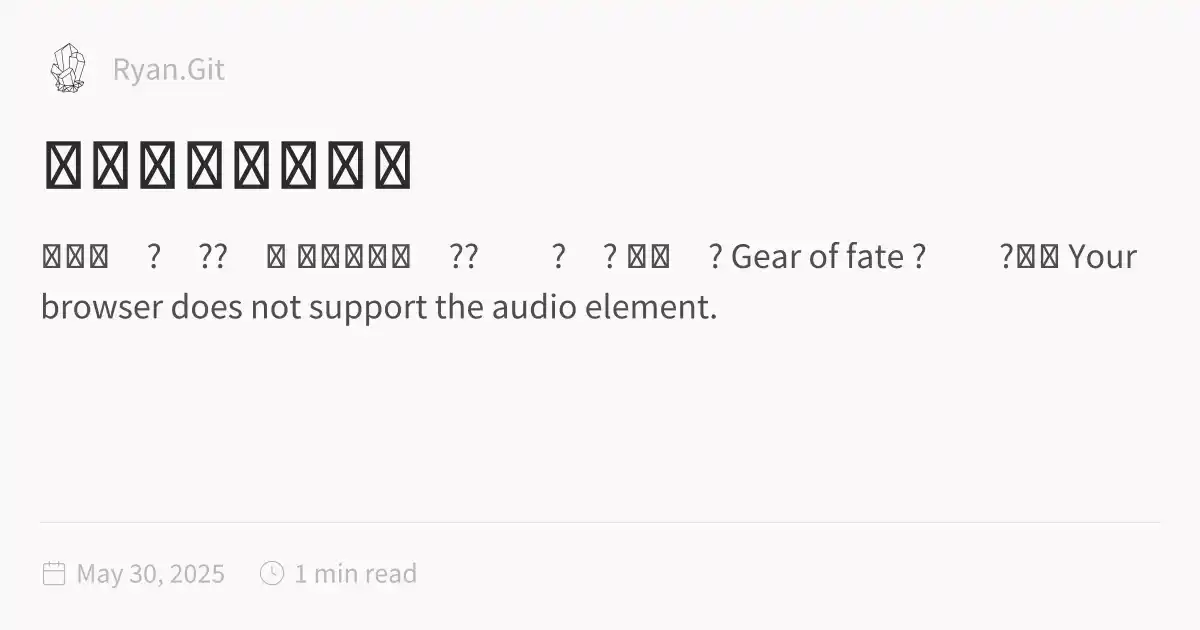
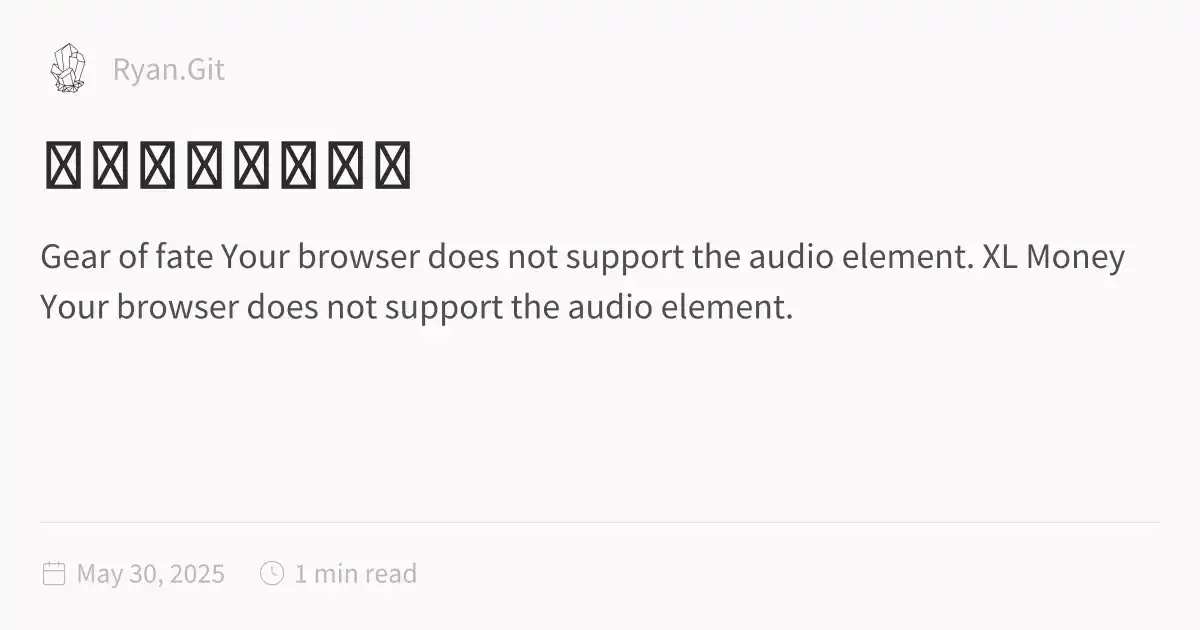
Deploy updated site

Changed region(s): [[0.0308, 0.3619, 0.9558, 0.5127]]

diff --git a/樂利錄音室作品集.html b/樂利錄音室作品集.html
@@ -1,5 +1,5 @@
 <!DOCTYPE html>
-<html lang="en"><head><title>樂利錄音室作品集</title><meta charset="utf-8"/><link rel="preconnect" href="https://fonts.googleapis.com"/><link rel="preconnect" href="https://fonts.gstatic.com"/><link rel="stylesheet" href="https://fonts.googleapis.com/css2?family=Schibsted Grotesk:wght@400;700&amp;family=Source Sans Pro:ital,wght@0,400;0,600;1,400;1,600&amp;family=IBM Plex Mono:wght@400;600&amp;display=swap"/><link rel="preconnect" href="https://cdnjs.cloudflare.com" crossorigin="anonymous"/><meta name="viewport" content="width=device-width, initial-scale=1.0"/><meta name="og:site_name" content="Ryan.Git"/><meta property="og:title" content="樂利錄音室作品集"/><meta property="og:type" content="website"/><meta name="twitter:card" content="summary_large_image"/><meta name="twitter:title" content="樂利錄音室作品集"/><meta name="twitter:description" content="已發行�?�??�曲 已發行影視�??��?�? 交響�? Gear of fate ?��?齒輪 Your browser does not support the audio element."/><meta property="og:description" content="已發行�?�??�曲 已發行影視�??��?�? 交響�? Gear of fate ?��?齒輪 Your browser does not support the audio element."/><meta property="og:image:alt" content="已發行�?�??�曲 已發行影視�??��?�? 交響�? Gear of fate ?��?齒輪 Your browser does not support the audio element."/><meta property="twitter:domain" content="Ryan.Git"/><meta property="og:url" content="https://ryan.git/樂利錄音室作品集"/><meta property="twitter:url" content="https://ryan.git/樂利錄音室作品集"/><link rel="icon" href="./static/icon.png"/><meta name="description" content="已發行�?�??�曲 已發行影視�??��?�? 交響�? Gear of fate ?��?齒輪 Your browser does not support the audio element."/><meta name="generator" content="Quartz"/><link href="./index.css" rel="stylesheet" type="text/css" spa-preserve/><style>.expand-button {
+<html lang="en"><head><title>樂利錄音室作品集</title><meta charset="utf-8"/><link rel="preconnect" href="https://fonts.googleapis.com"/><link rel="preconnect" href="https://fonts.gstatic.com"/><link rel="stylesheet" href="https://fonts.googleapis.com/css2?family=Schibsted Grotesk:wght@400;700&amp;family=Source Sans Pro:ital,wght@0,400;0,600;1,400;1,600&amp;family=IBM Plex Mono:wght@400;600&amp;display=swap"/><link rel="preconnect" href="https://cdnjs.cloudflare.com" crossorigin="anonymous"/><meta name="viewport" content="width=device-width, initial-scale=1.0"/><meta name="og:site_name" content="Ryan.Git"/><meta property="og:title" content="樂利錄音室作品集"/><meta property="og:type" content="website"/><meta name="twitter:card" content="summary_large_image"/><meta name="twitter:title" content="樂利錄音室作品集"/><meta name="twitter:description" content="Gear of fate Your browser does not support the audio element. XL Money Your browser does not support the audio element."/><meta property="og:description" content="Gear of fate Your browser does not support the audio element. XL Money Your browser does not support the audio element."/><meta property="og:image:alt" content="Gear of fate Your browser does not support the audio element. XL Money Your browser does not support the audio element."/><meta property="twitter:domain" content="Ryan.Git"/><meta property="og:url" content="https://ryan.git/樂利錄音室作品集"/><meta property="twitter:url" content="https://ryan.git/樂利錄音室作品集"/><link rel="icon" href="./static/icon.png"/><meta name="description" content="Gear of fate Your browser does not support the audio element. XL Money Your browser does not support the audio element."/><meta name="generator" content="Quartz"/><link href="./index.css" rel="stylesheet" type="text/css" spa-preserve/><style>.expand-button {
   position: absolute;
   display: flex;
   float: right;
@@ -116,10 +116,7 @@ pre:hover > .expand-button {
   padding: 0 12px;
   font-size: 14px;
 }
[1 lines of base64/hex data omitted]
-<h3 id="已發行影視">已發行影視�??��?�?<a role="anchor" aria-hidden="true" tabindex="-1" data-no-popover="true" href="#已發行影視" class="internal"><svg width="18" height="18" viewBox="0 0 24 24" fill="none" stroke="currentColor" stroke-width="2" stroke-linecap="round" stroke-linejoin="round"><path d="M10 13a5 5 0 0 0 7.54.54l3-3a5 5 0 0 0-7.07-7.07l-1.72 1.71"></path><path d="M14 11a5 5 0 0 0-7.54-.54l-3 3a5 5 0 0 0 7.07 7.07l1.71-1.71"></path></svg></a></h3>
-<h4 id="交響">交響�?<a role="anchor" aria-hidden="true" tabindex="-1" data-no-popover="true" href="#交響" class="internal"><svg width="18" height="18" viewBox="0 0 24 24" fill="none" stroke="currentColor" stroke-width="2" stroke-linecap="round" stroke-linejoin="round"><path d="M10 13a5 5 0 0 0 7.54.54l3-3a5 5 0 0 0-7.07-7.07l-1.72 1.71"></path><path d="M14 11a5 5 0 0 0-7.54-.54l-3 3a5 5 0 0 0 7.07 7.07l1.71-1.71"></path></svg></a></h4>
-<p>Gear of fate ?��?齒輪
[1 lines of base64/hex data omitted]
 <audio controls>
 <source src="audio/Gear-of-fate.mp3" type="audio/mpeg"/>
 Your browser does not support the audio element.
@@ -129,7 +126,10 @@ Your browser does not support the audio element.
 <source src="audio/XL-Money.mp3" type="audio/mpeg"/>
 Your browser does not support the audio element.
 </audio></p>
-<p>XL Ripples Inside</p></article><hr/><div class="page-footer"></div></div><div class="right sidebar"><div class="graph"><h3>Graph View</h3><div class="graph-outer"><div class="graph-container" data-cfg="{&quot;drag&quot;:true,&quot;zoom&quot;:true,&quot;depth&quot;:1,&quot;scale&quot;:1.1,&quot;repelForce&quot;:0.5,&quot;centerForce&quot;:0.3,&quot;linkDistance&quot;:30,&quot;fontSize&quot;:0.6,&quot;opacityScale&quot;:1,&quot;showTags&quot;:true,&quot;removeTags&quot;:[],&quot;focusOnHover&quot;:false,&quot;enableRadial&quot;:false}"></div><button class="global-graph-icon" aria-label="Global Graph"><svg version="1.1" xmlns="http://www.w3.org/2000/svg" xmlns:xlink="http://www.w3.org/1999/xlink" x="0px" y="0px" viewBox="0 0 55 55" fill="currentColor" xml:space="preserve"><path d="M49,0c-3.309,0-6,2.691-6,6c0,1.035,0.263,2.009,0.726,2.86l-9.829,9.829C32.542,17.634,30.846,17,29,17
+<audio controls>
+  <source src="ACT-1-Endeavor.mp3" type="audio/mpeg"/>
+  Your browser does not support the audio element.
+</audio></article><hr/><div class="page-footer"></div></div><div class="right sidebar"><div class="graph"><h3>Graph View</h3><div class="graph-outer"><div class="graph-container" data-cfg="{&quot;drag&quot;:true,&quot;zoom&quot;:true,&quot;depth&quot;:1,&quot;scale&quot;:1.1,&quot;repelForce&quot;:0.5,&quot;centerForce&quot;:0.3,&quot;linkDistance&quot;:30,&quot;fontSize&quot;:0.6,&quot;opacityScale&quot;:1,&quot;showTags&quot;:true,&quot;removeTags&quot;:[],&quot;focusOnHover&quot;:false,&quot;enableRadial&quot;:false}"></div><button class="global-graph-icon" aria-label="Global Graph"><svg version="1.1" xmlns="http://www.w3.org/2000/svg" xmlns:xlink="http://www.w3.org/1999/xlink" x="0px" y="0px" viewBox="0 0 55 55" fill="currentColor" xml:space="preserve"><path d="M49,0c-3.309,0-6,2.691-6,6c0,1.035,0.263,2.009,0.726,2.86l-9.829,9.829C32.542,17.634,30.846,17,29,17
                 s-3.542,0.634-4.898,1.688l-7.669-7.669C16.785,10.424,17,9.74,17,9c0-2.206-1.794-4-4-4S9,6.794,9,9s1.794,4,4,4
                 c0.74,0,1.424-0.215,2.019-0.567l7.669,7.669C21.634,21.458,21,23.154,21,25s0.634,3.542,1.688,4.897L10.024,42.562
                 C8.958,41.595,7.549,41,6,41c-3.309,0-6,2.691-6,6s2.691,6,6,6s6-2.691,6-6c0-1.035-0.263-2.009-0.726-2.86l12.829-12.829
@@ -139,6 +139,6 @@ Your browser does not support the audio element.
                 C46.042,11.405,47.451,12,49,12c3.309,0,6-2.691,6-6S52.309,0,49,0z M11,9c0-1.103,0.897-2,2-2s2,0.897,2,2s-0.897,2-2,2
                 S11,10.103,11,9z M6,51c-2.206,0-4-1.794-4-4s1.794-4,4-4s4,1.794,4,4S8.206,51,6,51z M33,49c0,2.206-1.794,4-4,4s-4-1.794-4-4
                 s1.794-4,4-4S33,46.794,33,49z M29,31c-3.309,0-6-2.691-6-6s2.691-6,6-6s6,2.691,6,6S32.309,31,29,31z M47,41c0,1.103-0.897,2-2,2
-                s-2-0.897-2-2s0.897-2,2-2S47,39.897,47,41z M49,10c-2.206,0-4-1.794-4-4s1.794-4,4-4s4,1.794,4,4S51.206,10,49,10z"></path></svg></button></div><div class="global-graph-outer"><div class="global-graph-container" data-cfg="{&quot;drag&quot;:true,&quot;zoom&quot;:true,&quot;depth&quot;:-1,&quot;scale&quot;:0.9,&quot;repelForce&quot;:0.5,&quot;centerForce&quot;:0.2,&quot;linkDistance&quot;:30,&quot;fontSize&quot;:0.6,&quot;opacityScale&quot;:1,&quot;showTags&quot;:true,&quot;removeTags&quot;:[],&quot;focusOnHover&quot;:true,&quot;enableRadial&quot;:true}"></div></div></div><div class="toc desktop-only"><button type="button" class="toc-header" aria-controls="toc-content" aria-expanded="true"><h3>Table of Contents</h3><svg xmlns="http://www.w3.org/2000/svg" width="24" height="24" viewBox="0 0 24 24" fill="none" stroke="currentColor" stroke-width="2" stroke-linecap="round" stroke-linejoin="round" class="fold"><polyline points="6 9 12 15 18 9"></polyline></svg></button><ul class="toc-content overflow" id="list-1"><li class="depth-0"><a href="#已發行曲" data-for="已發行曲">已發行�?�??�曲</a></li><li class="depth-0"><a href="#已發行影視" data-for="已發行影視">已發行影視�??��?�?</a></li><li class="overflow-end"></li></ul></div></div><footer class><p>Created with <a href="https://quartz.jzhao.xyz/">Quartz v4.5.0</a> © 2025</p><ul><li><a href="https://github.com/jackyzha0/quartz">GitHub</a></li><li><a href="https://discord.gg/cRFFHYye7t">Discord Community</a></li></ul></footer></div></div></body><script type="application/javascript">function n(){let t=this.parentElement;t.classList.toggle("is-collapsed");let e=t.getElementsByClassName("callout-content")[0];if(!e)return;let l=t.classList.contains("is-collapsed");e.style.gridTemplateRows=l?"0fr":"1fr"}function c(){let t=document.getElementsByClassName("callout is-collapsible");for(let e of t){let l=e.getElementsByClassName("callout-title")[0],s=e.getElementsByClassName("callout-content")[0];if(!l||!s)continue;l.addEventListener("click",n),window.addCleanup(()=>l.removeEventListener("click",n));let o=e.classList.contains("is-collapsed");s.style.gridTemplateRows=o?"0fr":"1fr"}}document.addEventListener("nav",c);
+                s-2-0.897-2-2s0.897-2,2-2S47,39.897,47,41z M49,10c-2.206,0-4-1.794-4-4s1.794-4,4-4s4,1.794,4,4S51.206,10,49,10z"></path></svg></button></div><div class="global-graph-outer"><div class="global-graph-container" data-cfg="{&quot;drag&quot;:true,&quot;zoom&quot;:true,&quot;depth&quot;:-1,&quot;scale&quot;:0.9,&quot;repelForce&quot;:0.5,&quot;centerForce&quot;:0.2,&quot;linkDistance&quot;:30,&quot;fontSize&quot;:0.6,&quot;opacityScale&quot;:1,&quot;showTags&quot;:true,&quot;removeTags&quot;:[],&quot;focusOnHover&quot;:true,&quot;enableRadial&quot;:true}"></div></div></div></div><footer class><p>Created with <a href="https://quartz.jzhao.xyz/">Quartz v4.5.0</a> © 2025</p><ul><li><a href="https://github.com/jackyzha0/quartz">GitHub</a></li><li><a href="https://discord.gg/cRFFHYye7t">Discord Community</a></li></ul></footer></div></div></body><script type="application/javascript">function n(){let t=this.parentElement;t.classList.toggle("is-collapsed");let e=t.getElementsByClassName("callout-content")[0];if(!e)return;let l=t.classList.contains("is-collapsed");e.style.gridTemplateRows=l?"0fr":"1fr"}function c(){let t=document.getElementsByClassName("callout is-collapsible");for(let e of t){let l=e.getElementsByClassName("callout-title")[0],s=e.getElementsByClassName("callout-content")[0];if(!l||!s)continue;l.addEventListener("click",n),window.addCleanup(()=>l.removeEventListener("click",n));let o=e.classList.contains("is-collapsed");s.style.gridTemplateRows=o?"0fr":"1fr"}}document.addEventListener("nav",c);
 </script><script type="module">function f(i,e){if(!i)return;function r(o){o.target===this&&(o.preventDefault(),o.stopPropagation(),e())}function t(o){o.key.startsWith("Esc")&&(o.preventDefault(),e())}i?.addEventListener("click",r),window.addCleanup(()=>i?.removeEventListener("click",r)),document.addEventListener("keydown",t),window.addCleanup(()=>document.removeEventListener("keydown",t))}function y(i){for(;i.firstChild;)i.removeChild(i.firstChild)}var h=class{constructor(e,r){this.container=e;this.content=r;this.setupEventListeners(),this.setupNavigationControls(),this.resetTransform()}isDragging=!1;startPan={x:0,y:0};currentPan={x:0,y:0};scale=1;MIN_SCALE=.5;MAX_SCALE=3;cleanups=[];setupEventListeners(){let e=this.onMouseDown.bind(this),r=this.onMouseMove.bind(this),t=this.onMouseUp.bind(this),o=this.resetTransform.bind(this);this.container.addEventListener("mousedown",e),document.addEventListener("mousemove",r),document.addEventListener("mouseup",t),window.addEventListener("resize",o),this.cleanups.push(()=>this.container.removeEventListener("mousedown",e),()=>document.removeEventListener("mousemove",r),()=>document.removeEventListener("mouseup",t),()=>window.removeEventListener("resize",o))}cleanup(){for(let e of this.cleanups)e()}setupNavigationControls(){let e=document.createElement("div");e.className="mermaid-controls";let r=this.createButton("+",()=>this.zoom(.1)),t=this.createButton("-",()=>this.zoom(-.1)),o=this.createButton("Reset",()=>this.resetTransform());e.appendChild(t),e.appendChild(o),e.appendChild(r),this.container.appendChild(e)}createButton(e,r){let t=document.createElement("button");return t.textContent=e,t.className="mermaid-control-button",t.addEventListener("click",r),window.addCleanup(()=>t.removeEventListener("click",r)),t}onMouseDown(e){e.button===0&&(this.isDragging=!0,this.startPan={x:e.clientX-this.currentPan.x,y:e.clientY-this.currentPan.y},this.container.style.cursor="grabbing")}onMouseMove(e){this.isDragging&&(e.preventDefault(),this.currentPan={x:e.clientX-this.startPan.x,y:e.clientY-this.startPan.y},this.updateTransform())}onMouseUp(){this.isDragging=!1,this.container.style.cursor="grab"}zoom(e){let r=Math.min(Math.max(this.scale+e,this.MIN_SCALE),this.MAX_SCALE),t=this.content.getBoundingClientRect(),o=t.width/2,n=t.height/2,c=r-this.scale;this.currentPan.x-=o*c,this.currentPan.y-=n*c,this.scale=r,this.updateTransform()}updateTransform(){this.content.style.transform=`translate(${this.currentPan.x}px, ${this.currentPan.y}px) scale(${this.scale})`}resetTransform(){this.scale=1;let e=this.content.querySelector("svg");this.currentPan={x:e.getBoundingClientRect().width/2,y:e.getBoundingClientRect().height/2},this.updateTransform()}},C=["--secondary","--tertiary","--gray","--light","--lightgray","--highlight","--dark","--darkgray","--codeFont"],E;document.addEventListener("nav",async()=>{let e=document.querySelector(".center").querySelectorAll("code.mermaid");if(e.length===0)return;E||=await import("https://cdnjs.cloudflare.com/ajax/libs/mermaid/11.4.0/mermaid.esm.min.mjs");let r=E.default,t=new WeakMap;for(let n of e)t.set(n,n.innerText);async function o(){for(let s of e){s.removeAttribute("data-processed");let a=t.get(s);a&&(s.innerHTML=a)}let n=C.reduce((s,a)=>(s[a]=window.getComputedStyle(document.documentElement).getPropertyValue(a),s),{}),c=document.documentElement.getAttribute("saved-theme")==="dark";r.initialize({startOnLoad:!1,securityLevel:"loose",theme:c?"dark":"base",themeVariables:{fontFamily:n["--codeFont"],primaryColor:n["--light"],primaryTextColor:n["--darkgray"],primaryBorderColor:n["--tertiary"],lineColor:n["--darkgray"],secondaryColor:n["--secondary"],tertiaryColor:n["--tertiary"],clusterBkg:n["--light"],edgeLabelBackground:n["--highlight"]}}),await r.run({nodes:e})}await o(),document.addEventListener("themechange",o),window.addCleanup(()=>document.removeEventListener("themechange",o));for(let n=0;n<e.length;n++){let v=function(){let g=l.querySelector("#mermaid-space"),m=l.querySelector(".mermaid-content");if(!m)return;y(m);let w=c.querySelector("svg").cloneNode(!0);m.appendChild(w),l.classList.add("active"),g.style.cursor="grab",u=new h(g,m)},M=function(){l.classList.remove("active"),u?.cleanup(),u=null},c=e[n],s=c.parentElement,a=s.querySelector(".clipboard-button"),d=s.querySelector(".expand-button"),p=window.getComputedStyle(a),L=a.offsetWidth+parseFloat(p.marginLeft||"0")+parseFloat(p.marginRight||"0");d.style.right=`calc(${L}px + 0.3rem)`,s.prepend(d);let l=s.querySelector("#mermaid-container");if(!l)return;let u=null;d.addEventListener("click",v),f(l,M),window.addCleanup(()=>{u?.cleanup(),d.removeEventListener("click",v)})}});
 </script><script src="https://cdn.jsdelivr.net/npm/katex@0.16.11/dist/contrib/copy-tex.min.js" type="application/javascript"></script><script src="./postscript.js" type="module"></script></html>
